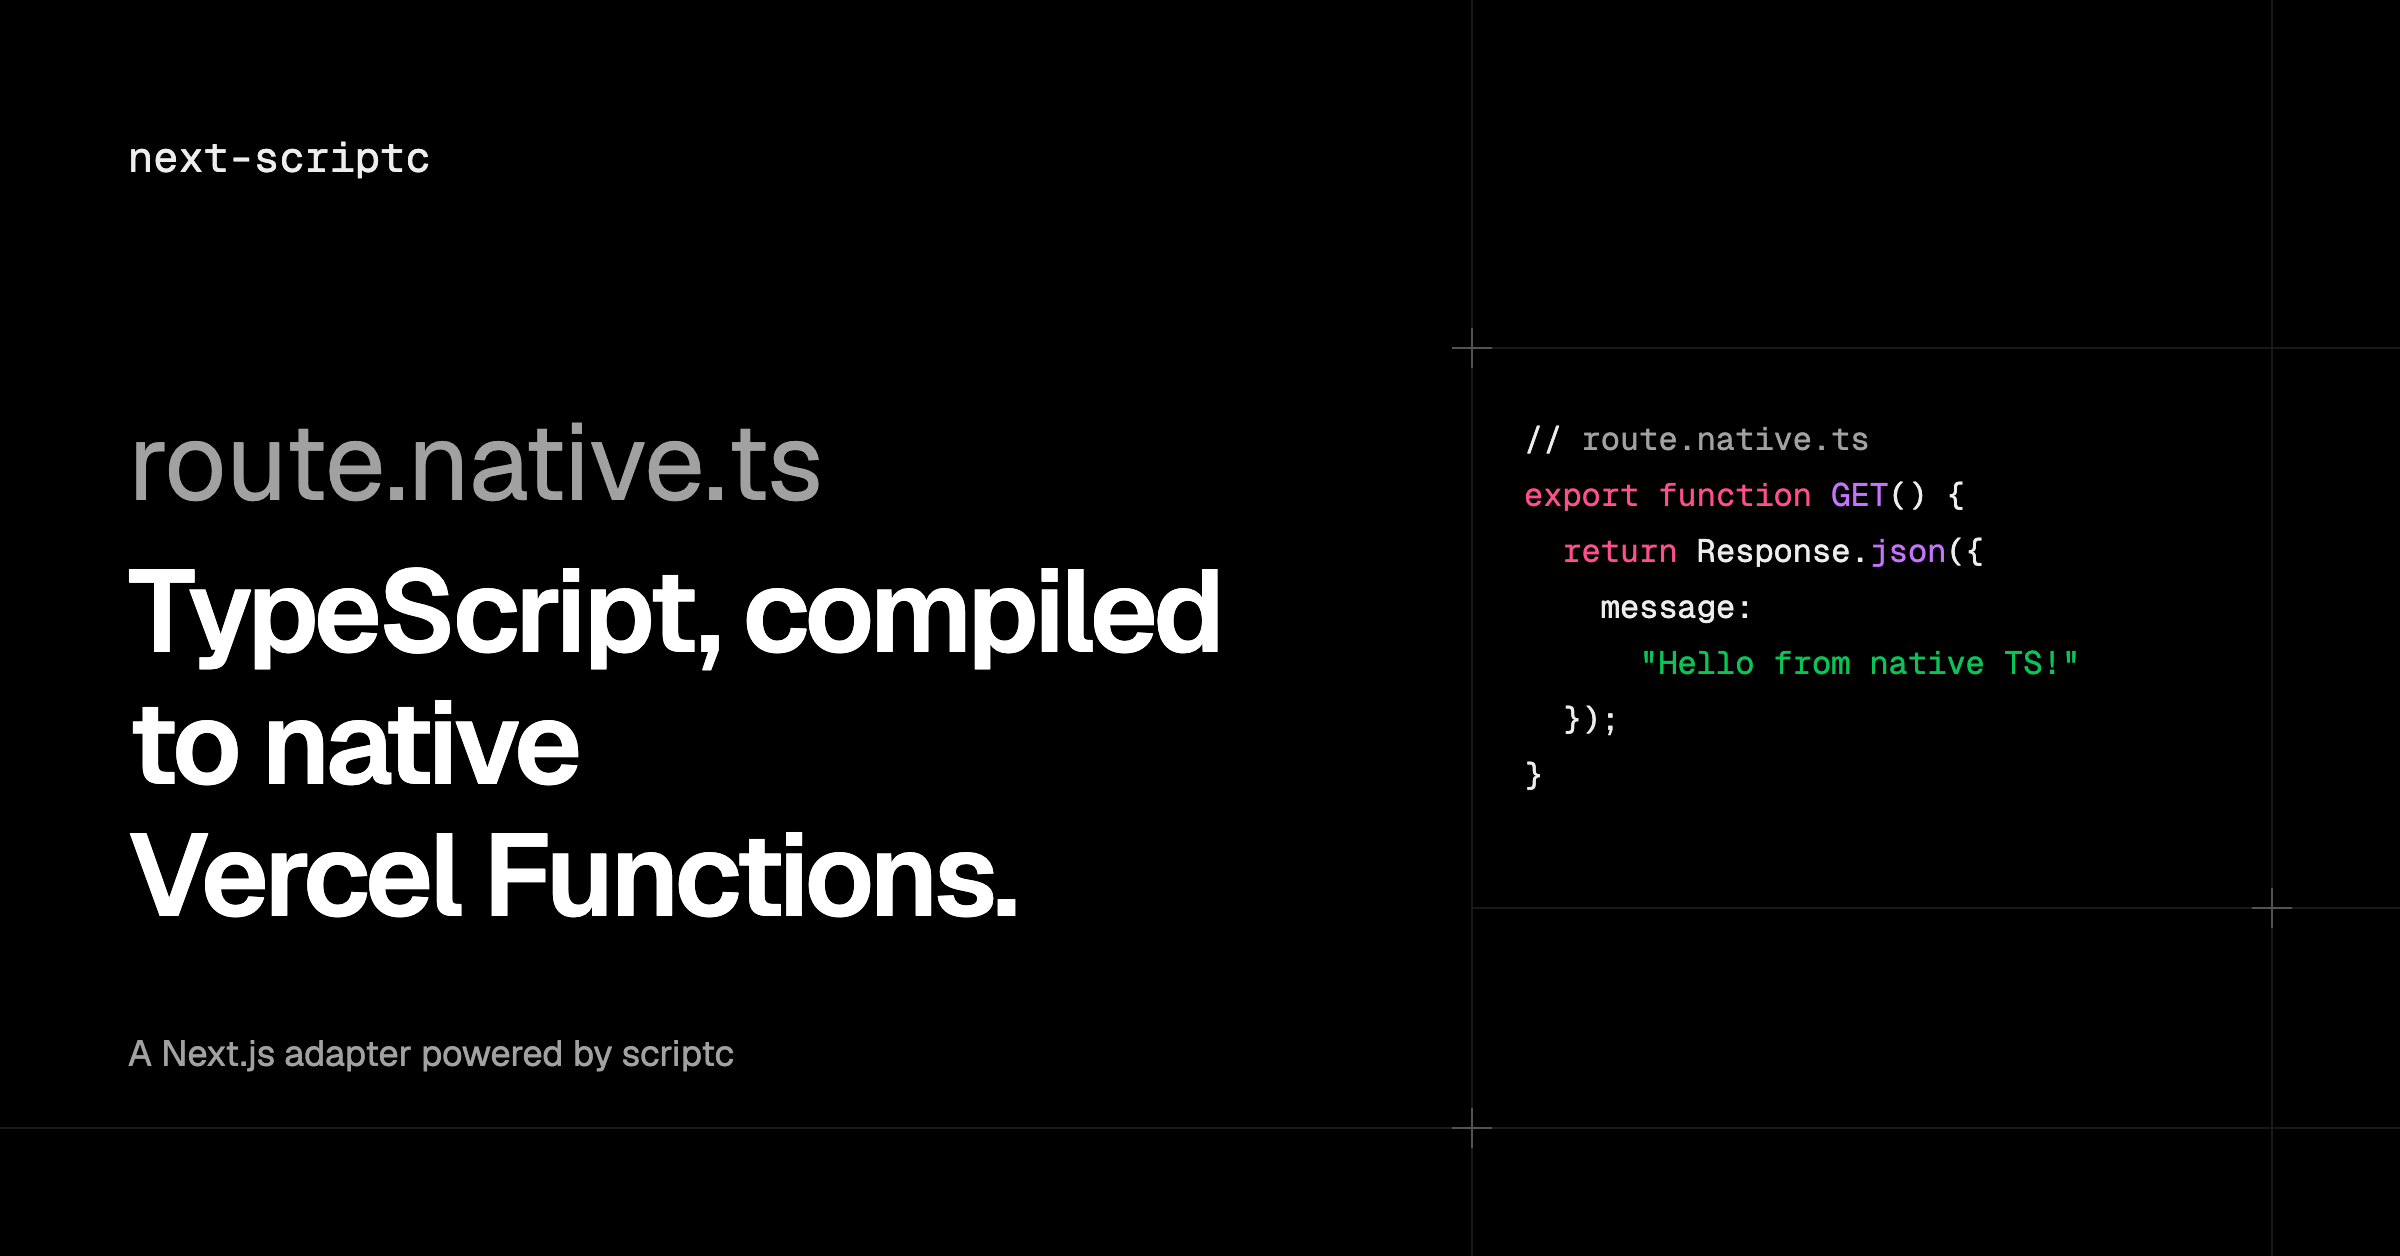
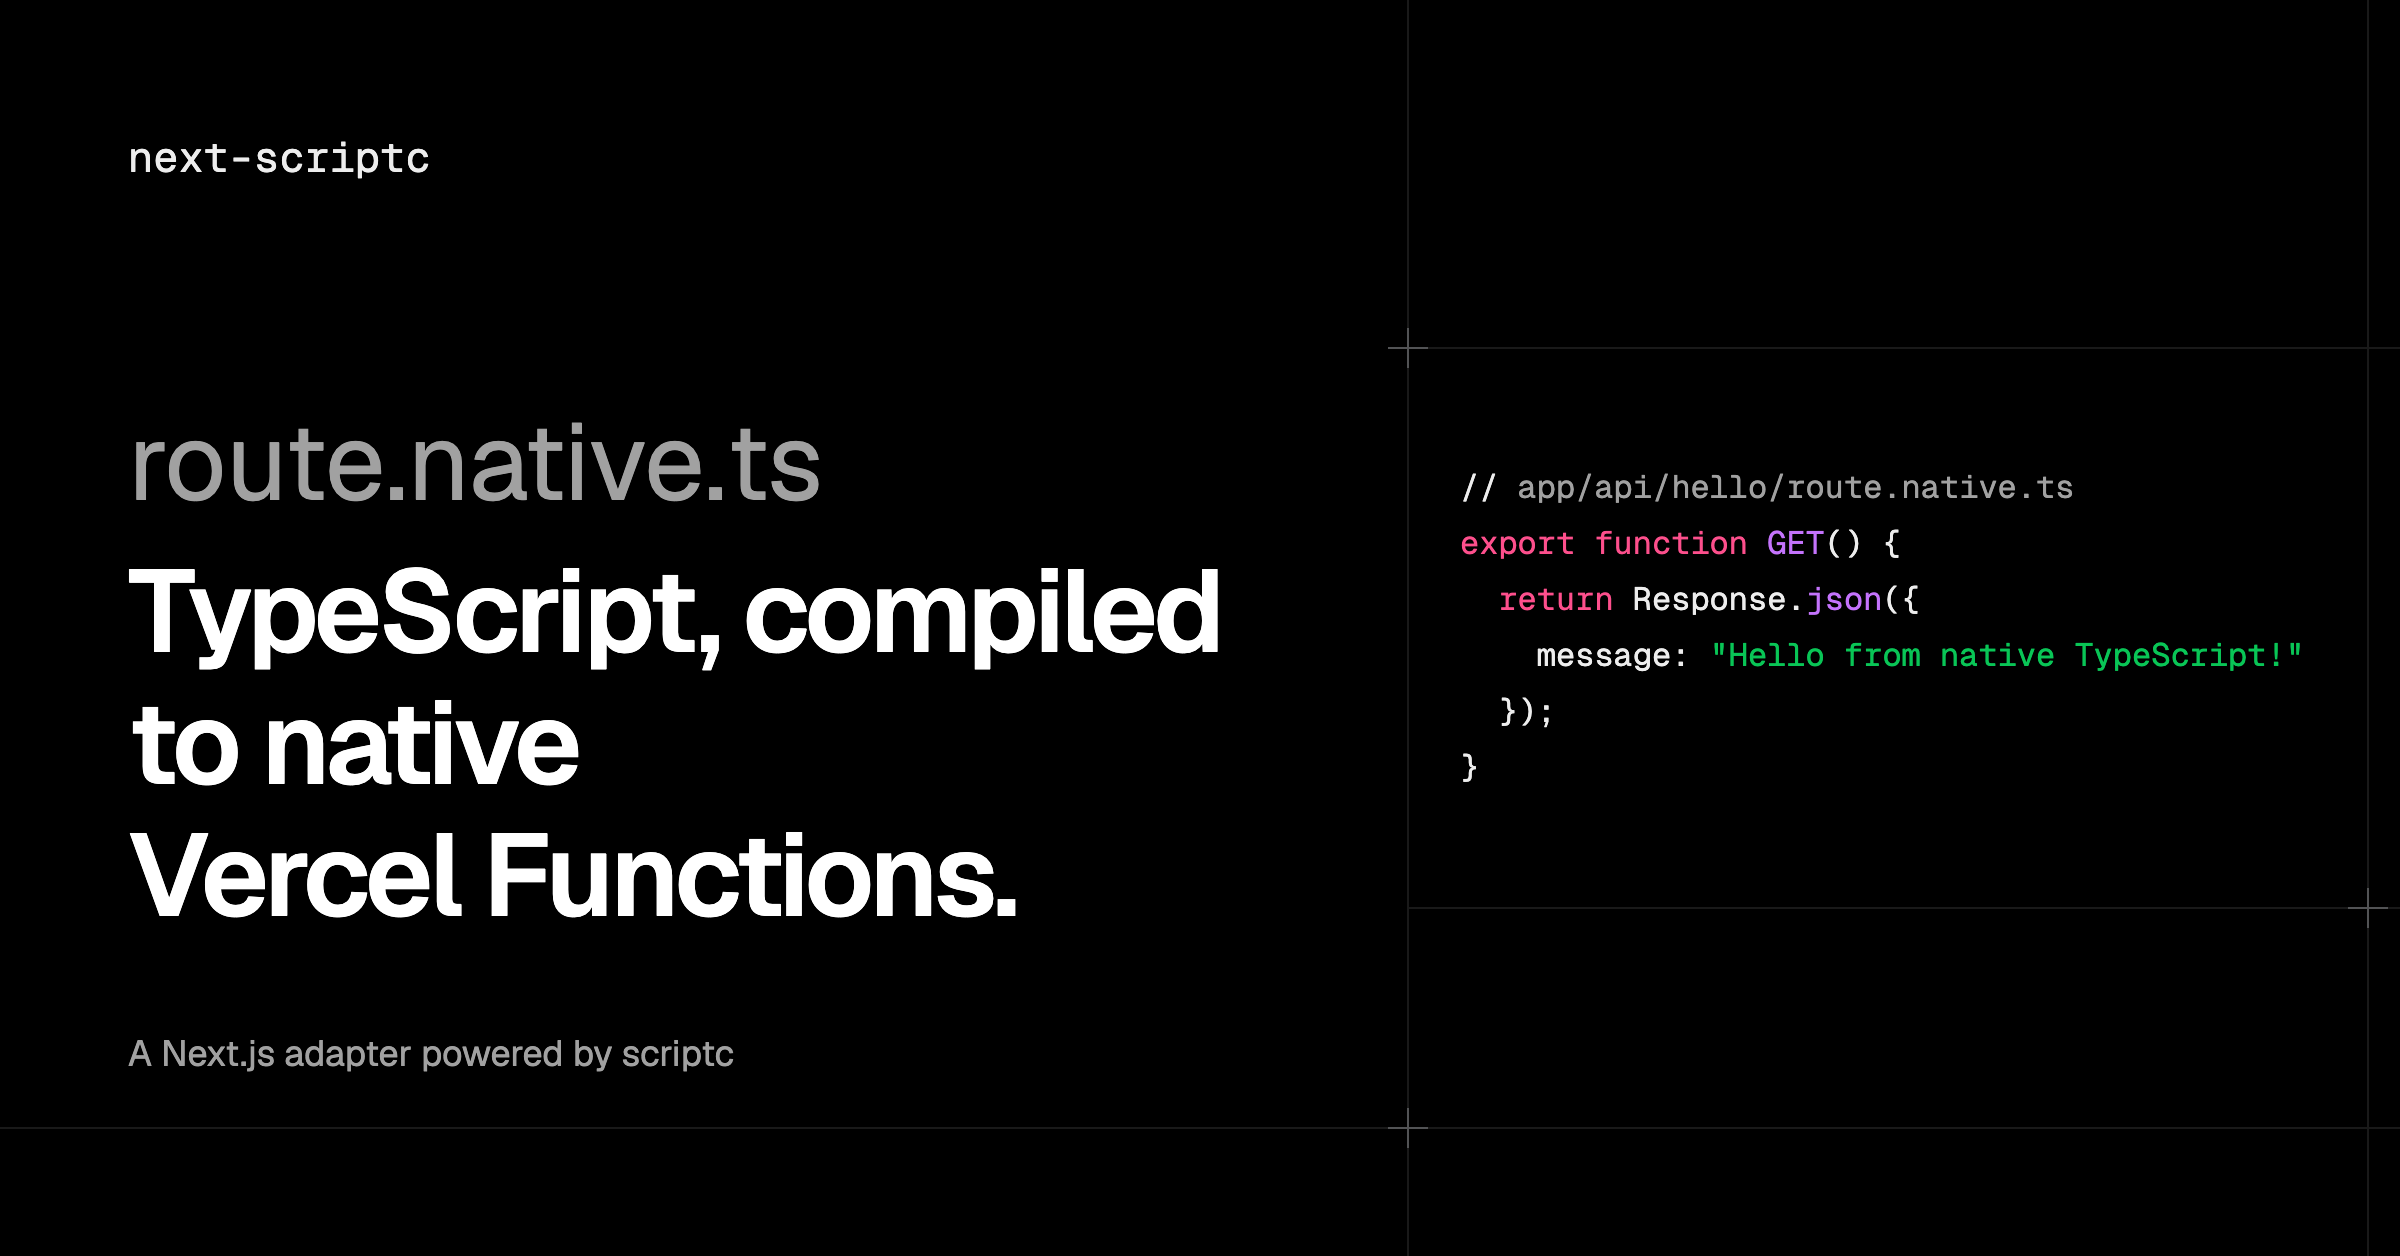
Fit native route frame and correct hero code formatting

Changed region(s): [[0.625, 0.3416, 0.9688, 0.5589], [0.625, 0.5589, 0.6562, 0.59]]

diff --git a/research/launch/README.md b/research/launch/README.md
@@ -27,7 +27,7 @@ Chrome renders at device scale factor 2. The generator waits for all three font 
 
 | File | Purpose |
 | --- | --- |
-| `.github/assets/code-route-native.png` | Single framed hello route, 2000×1600. |
+| `.github/assets/code-route-native.png` | Content-fitted hello route with equal vertical padding, 2048×1152 (16:9). |
 | `.github/assets/code-use-native.png` | Simplified real revenue function with directive highlighted, 2000×1600. |
 | `.github/assets/chart-vector-vercel.png` | Hosted int8 server-compute p50, 2000×1500. |
 | `.github/assets/chart-vercel-native-vs-node.png` | First response, RSS and three CPU/request comparisons, 2000×1660. |
